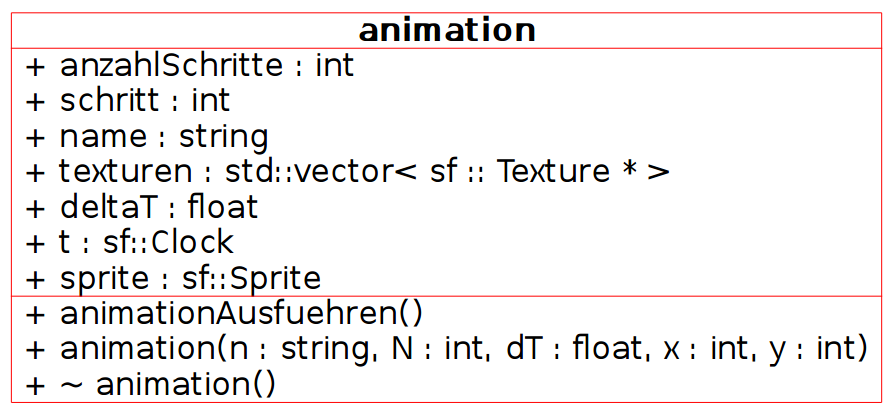
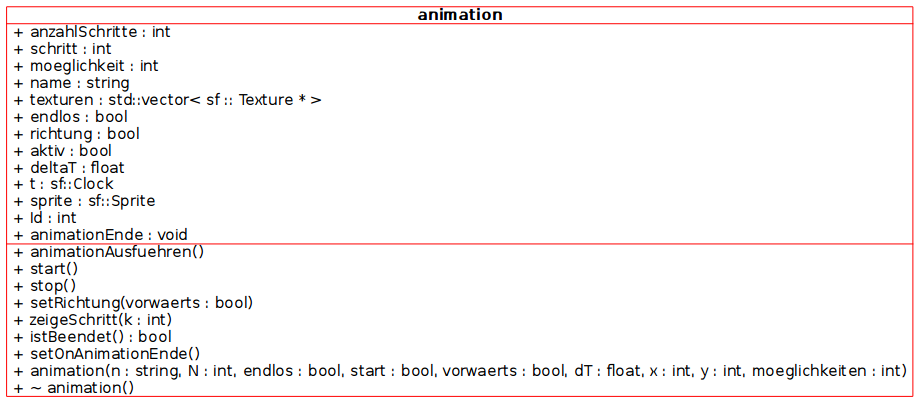
Doku: UMLs neu / angepasst

Changed region(s): [[0.0, 0.0, 0.9966, 1.0]]

diff --git a/doc/Dokumentation/dokumentation.tex b/doc/Dokumentation/dokumentation.tex
@@ -7,6 +7,7 @@
 \usepackage{blindtext}
 \usepackage{graphicx}
 \usepackage{url}
+\usepackage{listings}
 \usepackage[hidelinks]{hyperref}
 
 
@@ -152,7 +153,7 @@ einfach zu kompilieren. Code::Blocks setzt dabei auf eine Art \textbf{make}, wie
 seit dem letzten Durchgang geändert hat. Code::Blocks nutzt \textbf{g++}, den GNU C++ Compiler, um die einzelnen Dateien in Objektcode umzuwandeln und diesen
 anschliessen in eine ausführbare Datei zu linken.
 
-\subsection{git / GitHub}
+\subsection{git und GitHub}
 \textbf{git} ist eine sogenannte verteilte Versionskontrolle (DVCS\footnote{Distributed Version Control System}). Ein solches Werkzeug übernimmt
 den Entwicklern einige Arbeit, wenn es darum geht, parallel an Software zu schreiben. Zudem zeichnet es alle Änderungen am Code auf und man kann diese
 einsehen, um zum Beispiel Fehler zu finden, sie erst seit kurzem vorhanden sind, oder gewisse Änderungen rückgängig zu machen, ohne dass man
@@ -196,6 +197,8 @@ zu einem Speicherleck von knapp 20MB,
 
 
 \subsection{GIMP}
+
+\subsection{GDB - Der GNU Debugger}
 
 \newpage
 \section{Vorgehen}
@@ -288,13 +291,20 @@ das ganze in ein irres Durcheinenader. Wir brauchen die Anzahl Elemente die es h
 zu welchem Objekt gehört. Denn das Programm liesst dort nur Zahlen heraus. Und mit Wörtern können wir ihm das nicht erklären, 
 da er diese ja nicht verstehen kann.
 
+\begin{figure}[h]
+\centering
+\includegraphics[scale=0.45]{img/level_uml.png}
+\caption{UML der Levelklasse}
+\end{figure}
+
+
 \subsubsection{Animationen}
 Von Anfang an waren auch Animationen in unserem Spiel eingeplant. So sollen zum Beispiel ausserhalb eines Hauses
 Türen durch grün blinkende/aufleuchtende Pfeile markiert werden. Für solche Animationen wurde eigens eine Klasse
 implementiert.
 \begin{figure}[h]
 	\centering
-	\includegraphics[scale=0.3]{img/animation_uml.png}
+	\includegraphics[scale=0.6]{img/animation_uml.png}
 	\caption{UML: Animationsklasse}
 \end{figure}
 Um Animationen später oft und möglichst einfach verwenden zu können, besitzt die Klasse einen einfachen Konstruktor,
@@ -419,7 +429,8 @@ blieb, haben wir aber sehr intensiv genutzt. Die Kreise in Abbildung \ref{fig:pu
 
 \section{Das Spiel}
 \subsection{Das Spielprinzip}
-Das Spielprinzip ist einfach: Als Einbrecher versucht man in ein Haus einzubrechen
+Das Spielprinzip ist einfach: Als Einbrecher versucht man in ein Haus einzubrechen, und dabei keinen Lärm zu verursachen, Laserschranken auszuweichen
+und dies je nach Spielmodus möglichst schnell, oder sehr ausgiebig.
 
 \subsection{Spielmodi}
 Wir haben unsere Level verschieden erstellt:
@@ -434,6 +445,7 @@ Wir haben unsere Level verschieden erstellt:
 
 \newpage
 \section{mögliche Erweiterungen / Ausblick}
+
 
 
 \clearpage
